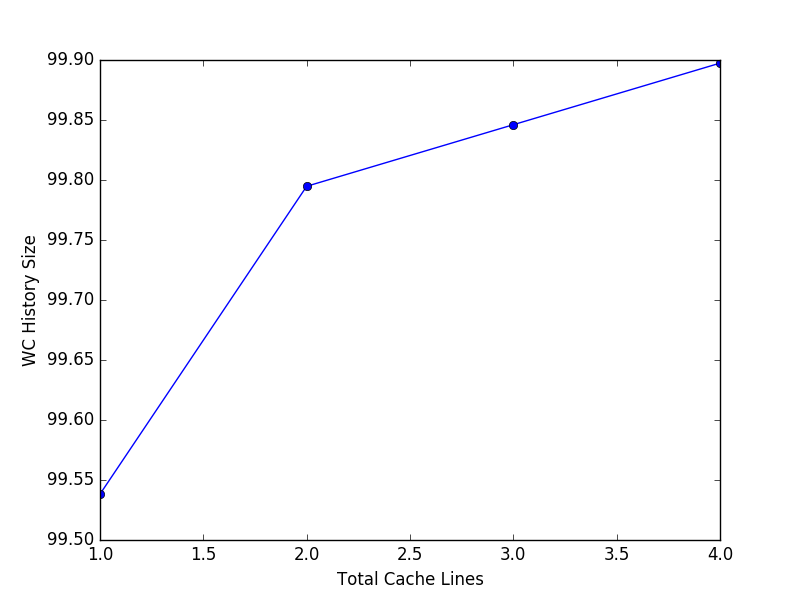
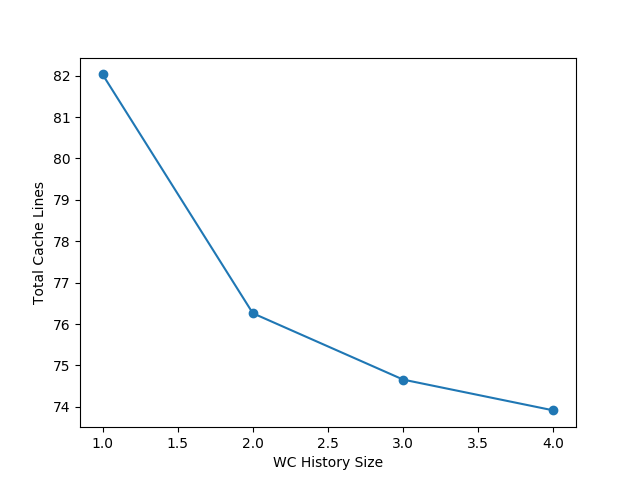
parameter.hpp

diff --git a/parameter.hpp b/parameter.hpp
@@ -3,8 +3,8 @@
 
 #define PARAM_CACHE_SIZE 32768
 #define PARAM_SET_SIZE 16
-#define PARAM_WCHISTORY_SIZE 2
-#define PARAM_PREDICT_RANGE  5
+#define PARAM_WCHISTORY_SIZE 4
+#define PARAM_PREDICT_RANGE  2
 
 #endif
 
